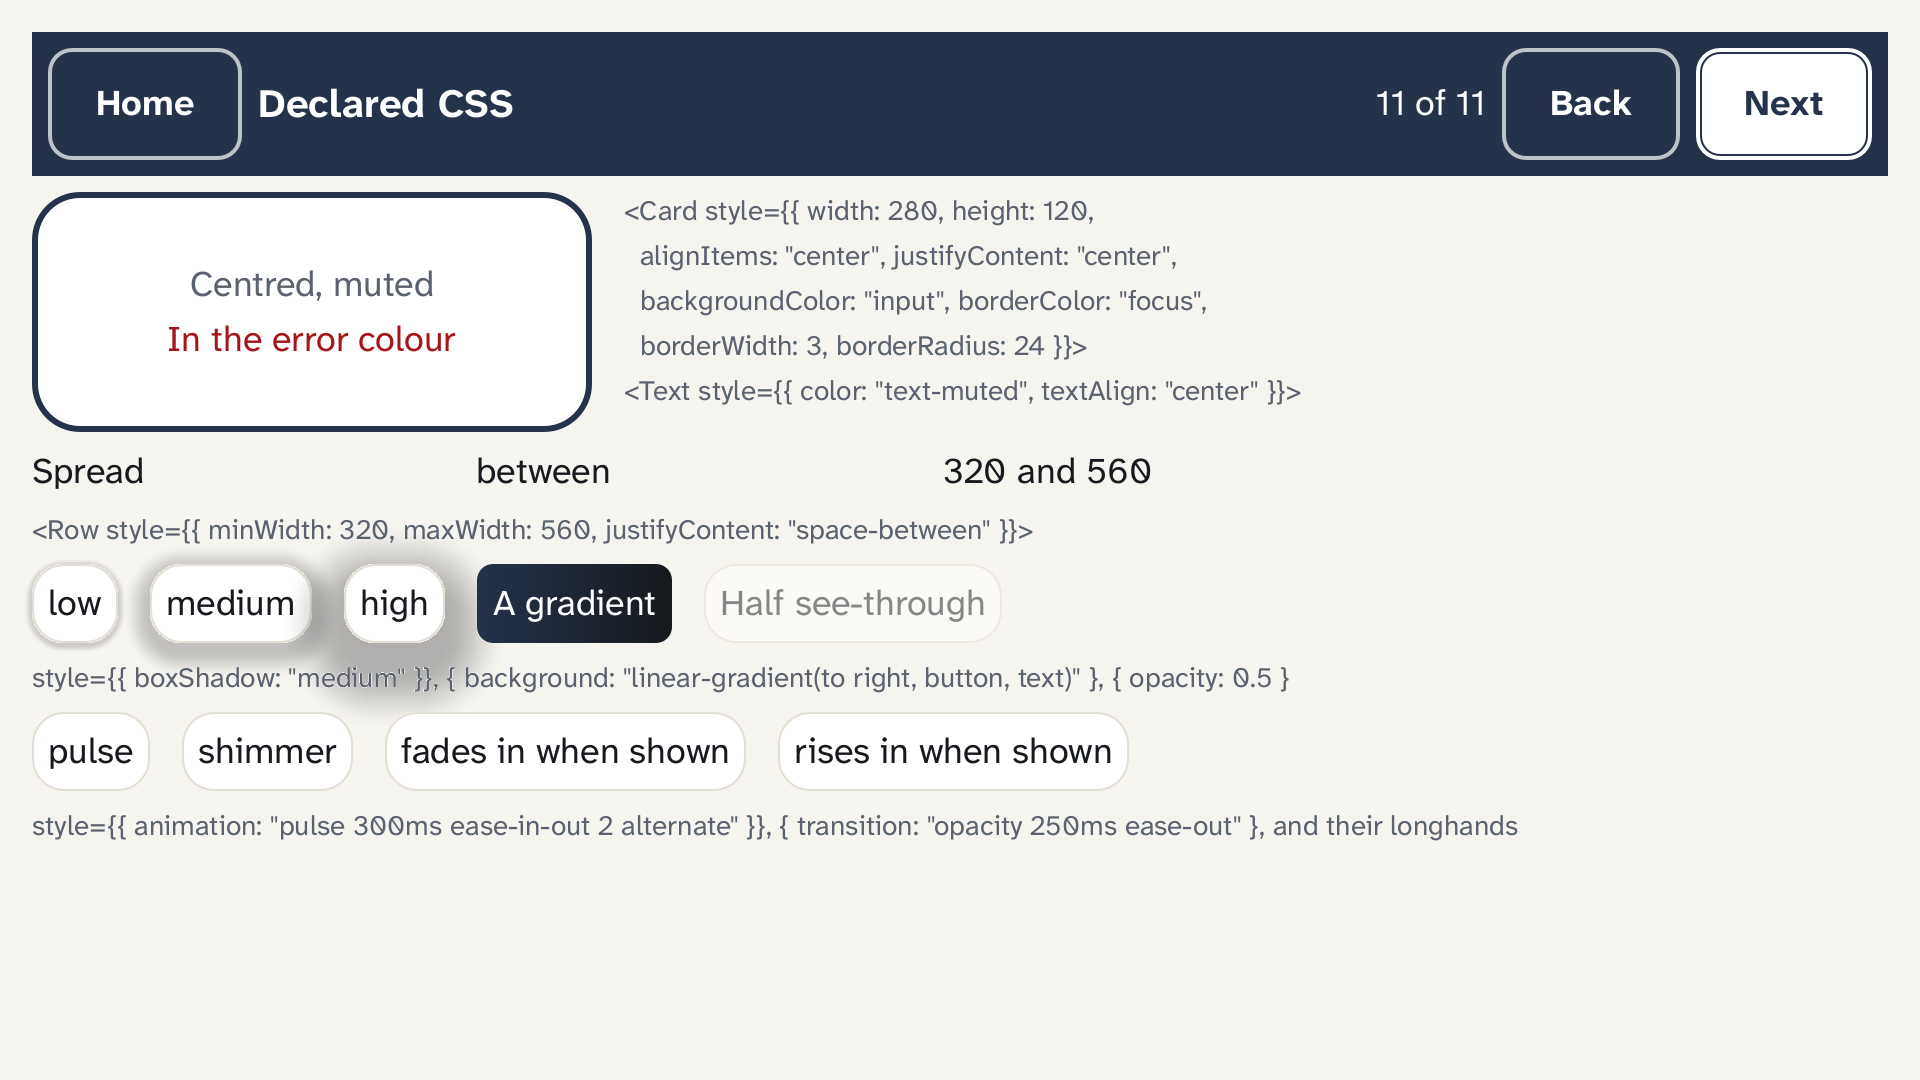
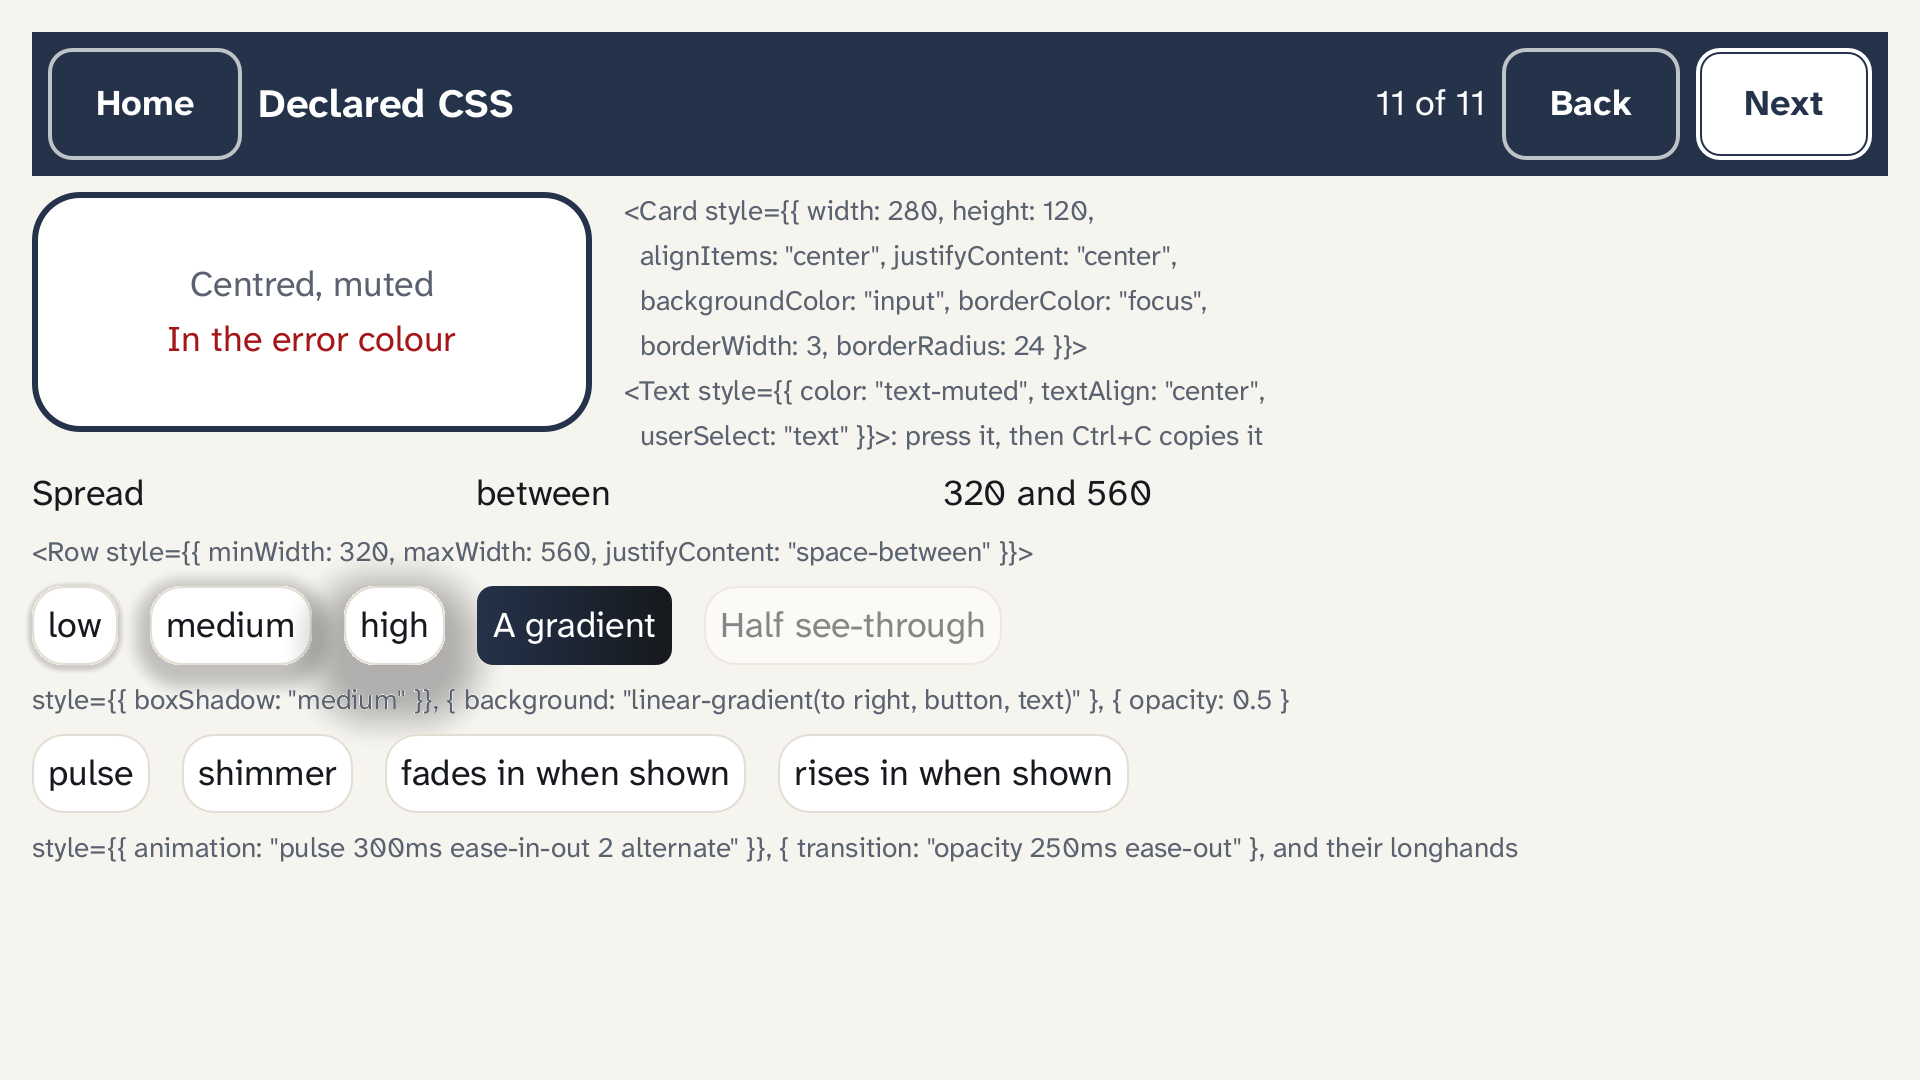
Selectable text in the gallery, on NoWayOS 200cccd

Changed region(s): [[0.0, 0.3972, 0.8125, 0.7944]]

diff --git a/showcase/showcase-app/tsx/gallery-css.tsx b/showcase/showcase-app/tsx/gallery-css.tsx
@@ -1,6 +1,7 @@
 // The Screen Compiler gallery, 11 of 11: the style properties a screen may declare: sizes, alignment, and
 // the theme's colours by name - never a colour value, so the
-// large-text, high-contrast theme recolours them - and the theme's shadows, gradients and opacity.
+// large-text, high-contrast theme recolours them - the theme's shadows, gradients and opacity, and
+// text a press selects for Ctrl+C to copy.
 // Each example is captioned with the TSX that made it. Written for the showcase in TSX and
 // converted at build time like every other screen here; the launcher's Screen Compiler
 // tile opens the first, and Back and Next go round them all.
@@ -53,7 +54,7 @@ export function GalleryCssScreen(props: GalleryProps) {
               borderRadius: 24,
             }}
           >
-            <Text style={{ color: "text-muted", textAlign: "center" }}>Centred, muted</Text>
+            <Text style={{ color: "text-muted", textAlign: "center", userSelect: "text" }}>Centred, muted</Text>
             <Text style={{ color: "error", textAlign: "center" }}>In the error colour</Text>
           </Card>
           <Column gap={4}>
@@ -61,7 +62,8 @@ export function GalleryCssScreen(props: GalleryProps) {
             <Text role="caption">{'  alignItems: "center", justifyContent: "center",'}</Text>
             <Text role="caption">{'  backgroundColor: "input", borderColor: "focus",'}</Text>
             <Text role="caption">{'  borderWidth: 3, borderRadius: 24 }}>'}</Text>
-            <Text role="caption">{'<Text style={{ color: "text-muted", textAlign: "center" }}>'}</Text>
+            <Text role="caption">{'<Text style={{ color: "text-muted", textAlign: "center",'}</Text>
+            <Text role="caption">{'  userSelect: "text" }}>: press it, then Ctrl+C copies it'}</Text>
           </Column>
         </Row>
         <Row style={{ minWidth: 320, maxWidth: 560, justifyContent: "space-between" }}>
